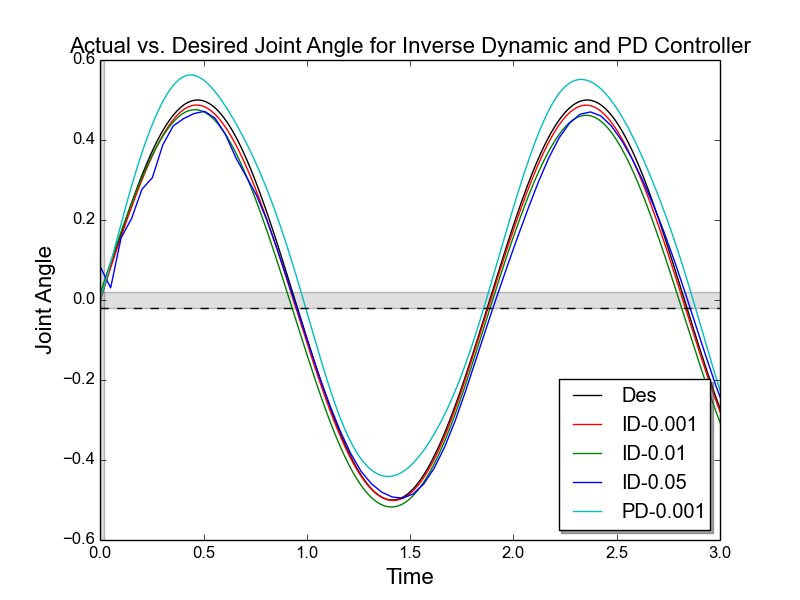
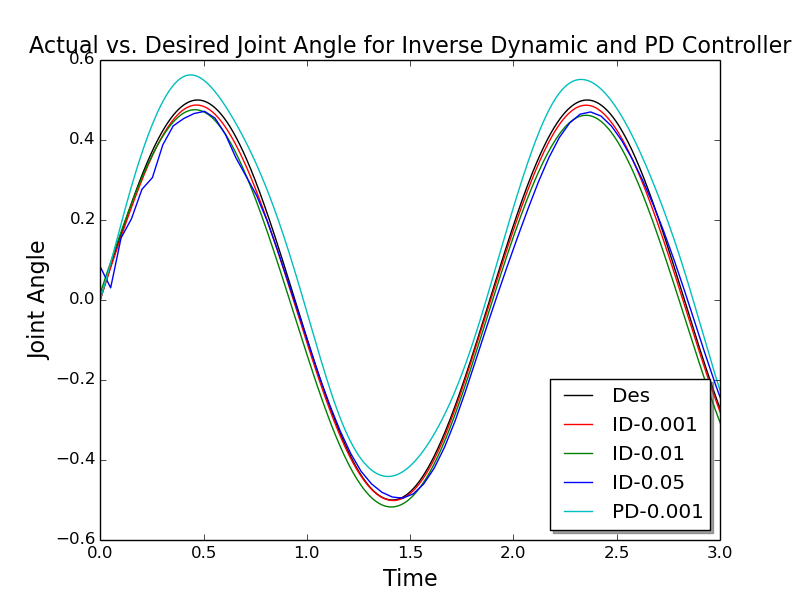
Took off error band on all plots

diff --git a/ControllerData/des_vs_act/elbow/plotGearJoints.py b/ControllerData/des_vs_act/elbow/plotGearJoints.py
@@ -70,9 +70,9 @@ plt.ylabel('Joint Angle', fontdict=font)
 plt.legend(loc=4, shadow=True)
 
 # annotate rise time (interval)
-plt.axhspan(set_point-error_band_delta,set_point+error_band_delta, facecolor='0.5', alpha=0.25)
-plt.axhline(y=set_point-error_band_delta, color='k',linestyle='--')
-plt.axvspan(0.0,rise_time,facecolor='0.5', alpha=0.25)
+#plt.axhspan(set_point-error_band_delta,set_point+error_band_delta, facecolor='0.5', alpha=0.25)
+#plt.axhline(y=set_point-error_band_delta, color='k',linestyle='--')
+#plt.axvspan(0.0,rise_time,facecolor='0.5', alpha=0.25)
 #plt.axvline(x=rise_time, color='k',linestyle='--')
 #plt.annotate('rise time', xy=(rise_time-.5, set_point-eps))
 

diff --git a/ControllerData/des_vs_act/lfinger/plotGearJoints.py b/ControllerData/des_vs_act/lfinger/plotGearJoints.py
@@ -70,9 +70,9 @@ plt.ylabel('Joint Angle', fontdict=font)
 plt.legend(loc=4, shadow=True)
 
 # annotate rise time (interval)
-plt.axhspan(set_point-error_band_delta,set_point+error_band_delta, facecolor='0.5', alpha=0.25)
-plt.axhline(y=set_point-error_band_delta, color='k',linestyle='--')
-plt.axvspan(0.0,rise_time,facecolor='0.5', alpha=0.25)
+#plt.axhspan(set_point-error_band_delta,set_point+error_band_delta, facecolor='0.5', alpha=0.25)
+#plt.axhline(y=set_point-error_band_delta, color='k',linestyle='--')
+#plt.axvspan(0.0,rise_time,facecolor='0.5', alpha=0.25)
 #plt.axvline(x=rise_time, color='k',linestyle='--')
 #plt.annotate('rise time', xy=(rise_time-.5, set_point-eps))
 

diff --git a/ControllerData/des_vs_act/plotGearJoints.py b/ControllerData/des_vs_act/plotGearJoints.py
@@ -70,9 +70,9 @@ plt.ylabel('Joint Angle', fontdict=font)
 plt.legend(loc=4, shadow=True)
 
 # annotate rise time (interval)
-plt.axhspan(set_point-error_band_delta,set_point+error_band_delta, facecolor='0.5', alpha=0.25)
-plt.axhline(y=set_point-error_band_delta, color='k',linestyle='--')
-plt.axvspan(0.0,rise_time,facecolor='0.5', alpha=0.25)
+#plt.axhspan(set_point-error_band_delta,set_point+error_band_delta, facecolor='0.5', alpha=0.25)
+#plt.axhline(y=set_point-error_band_delta, color='k',linestyle='--')
+#plt.axvspan(0.0,rise_time,facecolor='0.5', alpha=0.25)
 #plt.axvline(x=rise_time, color='k',linestyle='--')
 #plt.annotate('rise time', xy=(rise_time-.5, set_point-eps))
 

diff --git a/ControllerData/des_vs_act/rfinger/plotGearJoints.py b/ControllerData/des_vs_act/rfinger/plotGearJoints.py
@@ -70,9 +70,9 @@ plt.ylabel('Joint Angle', fontdict=font)
 plt.legend(loc=4, shadow=True)
 
 # annotate rise time (interval)
-plt.axhspan(set_point-error_band_delta,set_point+error_band_delta, facecolor='0.5', alpha=0.25)
-plt.axhline(y=set_point-error_band_delta, color='k',linestyle='--')
-plt.axvspan(0.0,rise_time,facecolor='0.5', alpha=0.25)
+#plt.axhspan(set_point-error_band_delta,set_point+error_band_delta, facecolor='0.5', alpha=0.25)
+#plt.axhline(y=set_point-error_band_delta, color='k',linestyle='--')
+#plt.axvspan(0.0,rise_time,facecolor='0.5', alpha=0.25)
 #plt.axvline(x=rise_time, color='k',linestyle='--')
 #plt.annotate('rise time', xy=(rise_time-.5, set_point-eps))
 

diff --git a/ControllerData/des_vs_act/shoulderlift/plotGearJoints.py b/ControllerData/des_vs_act/shoulderlift/plotGearJoints.py
@@ -70,9 +70,9 @@ plt.ylabel('Joint Angle', fontdict=font)
 plt.legend(loc=4, shadow=True)
 
 # annotate rise time (interval)
-plt.axhspan(set_point-error_band_delta,set_point+error_band_delta, facecolor='0.5', alpha=0.25)
-plt.axhline(y=set_point-error_band_delta, color='k',linestyle='--')
-plt.axvspan(0.0,rise_time,facecolor='0.5', alpha=0.25)
+#plt.axhspan(set_point-error_band_delta,set_point+error_band_delta, facecolor='0.5', alpha=0.25)
+#plt.axhline(y=set_point-error_band_delta, color='k',linestyle='--')
+#plt.axvspan(0.0,rise_time,facecolor='0.5', alpha=0.25)
 #plt.axvline(x=rise_time, color='k',linestyle='--')
 #plt.annotate('rise time', xy=(rise_time-.5, set_point-eps))
 

diff --git a/ControllerData/des_vs_act/shoulderpan/plotGearJoints.py b/ControllerData/des_vs_act/shoulderpan/plotGearJoints.py
@@ -70,9 +70,9 @@ plt.ylabel('Joint Angle', fontdict=font)
 plt.legend(loc=4, shadow=True)
 
 # annotate rise time (interval)
-plt.axhspan(set_point-error_band_delta,set_point+error_band_delta, facecolor='0.5', alpha=0.25)
-plt.axhline(y=set_point-error_band_delta, color='k',linestyle='--')
-plt.axvspan(0.0,rise_time,facecolor='0.5', alpha=0.25)
+#plt.axhspan(set_point-error_band_delta,set_point+error_band_delta, facecolor='0.5', alpha=0.25)
+#plt.axhline(y=set_point-error_band_delta, color='k',linestyle='--')
+#plt.axvspan(0.0,rise_time,facecolor='0.5', alpha=0.25)
 #plt.axvline(x=rise_time, color='k',linestyle='--')
 #plt.annotate('rise time', xy=(rise_time-.5, set_point-eps))
 

diff --git a/ControllerData/des_vs_act/wrist1/plotGearJoints.py b/ControllerData/des_vs_act/wrist1/plotGearJoints.py
@@ -70,9 +70,9 @@ plt.ylabel('Joint Angle', fontdict=font)
 plt.legend(loc=4, shadow=True)
 
 # annotate rise time (interval)
-plt.axhspan(set_point-error_band_delta,set_point+error_band_delta, facecolor='0.5', alpha=0.25)
-plt.axhline(y=set_point-error_band_delta, color='k',linestyle='--')
-plt.axvspan(0.0,rise_time,facecolor='0.5', alpha=0.25)
+#plt.axhspan(set_point-error_band_delta,set_point+error_band_delta, facecolor='0.5', alpha=0.25)
+#plt.axhline(y=set_point-error_band_delta, color='k',linestyle='--')
+#plt.axvspan(0.0,rise_time,facecolor='0.5', alpha=0.25)
 #plt.axvline(x=rise_time, color='k',linestyle='--')
 #plt.annotate('rise time', xy=(rise_time-.5, set_point-eps))
 

diff --git a/ControllerData/des_vs_act/wrist2/plotGearJoints.py b/ControllerData/des_vs_act/wrist2/plotGearJoints.py
@@ -70,9 +70,9 @@ plt.ylabel('Joint Angle', fontdict=font)
 plt.legend(loc=4, shadow=True)
 
 # annotate rise time (interval)
-plt.axhspan(set_point-error_band_delta,set_point+error_band_delta, facecolor='0.5', alpha=0.25)
-plt.axhline(y=set_point-error_band_delta, color='k',linestyle='--')
-plt.axvspan(0.0,rise_time,facecolor='0.5', alpha=0.25)
+#plt.axhspan(set_point-error_band_delta,set_point+error_band_delta, facecolor='0.5', alpha=0.25)
+#plt.axhline(y=set_point-error_band_delta, color='k',linestyle='--')
+#plt.axvspan(0.0,rise_time,facecolor='0.5', alpha=0.25)
 #plt.axvline(x=rise_time, color='k',linestyle='--')
 #plt.annotate('rise time', xy=(rise_time-.5, set_point-eps))
 

diff --git a/ControllerData/des_vs_act/wrist3/plotGearJoints.py b/ControllerData/des_vs_act/wrist3/plotGearJoints.py
@@ -70,9 +70,9 @@ plt.ylabel('Joint Angle', fontdict=font)
 plt.legend(loc=4, shadow=True)
 
 # annotate rise time (interval)
-plt.axhspan(set_point-error_band_delta,set_point+error_band_delta, facecolor='0.5', alpha=0.25)
-plt.axhline(y=set_point-error_band_delta, color='k',linestyle='--')
-plt.axvspan(0.0,rise_time,facecolor='0.5', alpha=0.25)
+#plt.axhspan(set_point-error_band_delta,set_point+error_band_delta, facecolor='0.5', alpha=0.25)
+#plt.axhline(y=set_point-error_band_delta, color='k',linestyle='--')
+#plt.axvspan(0.0,rise_time,facecolor='0.5', alpha=0.25)
 #plt.axvline(x=rise_time, color='k',linestyle='--')
 #plt.annotate('rise time', xy=(rise_time-.5, set_point-eps))
 
